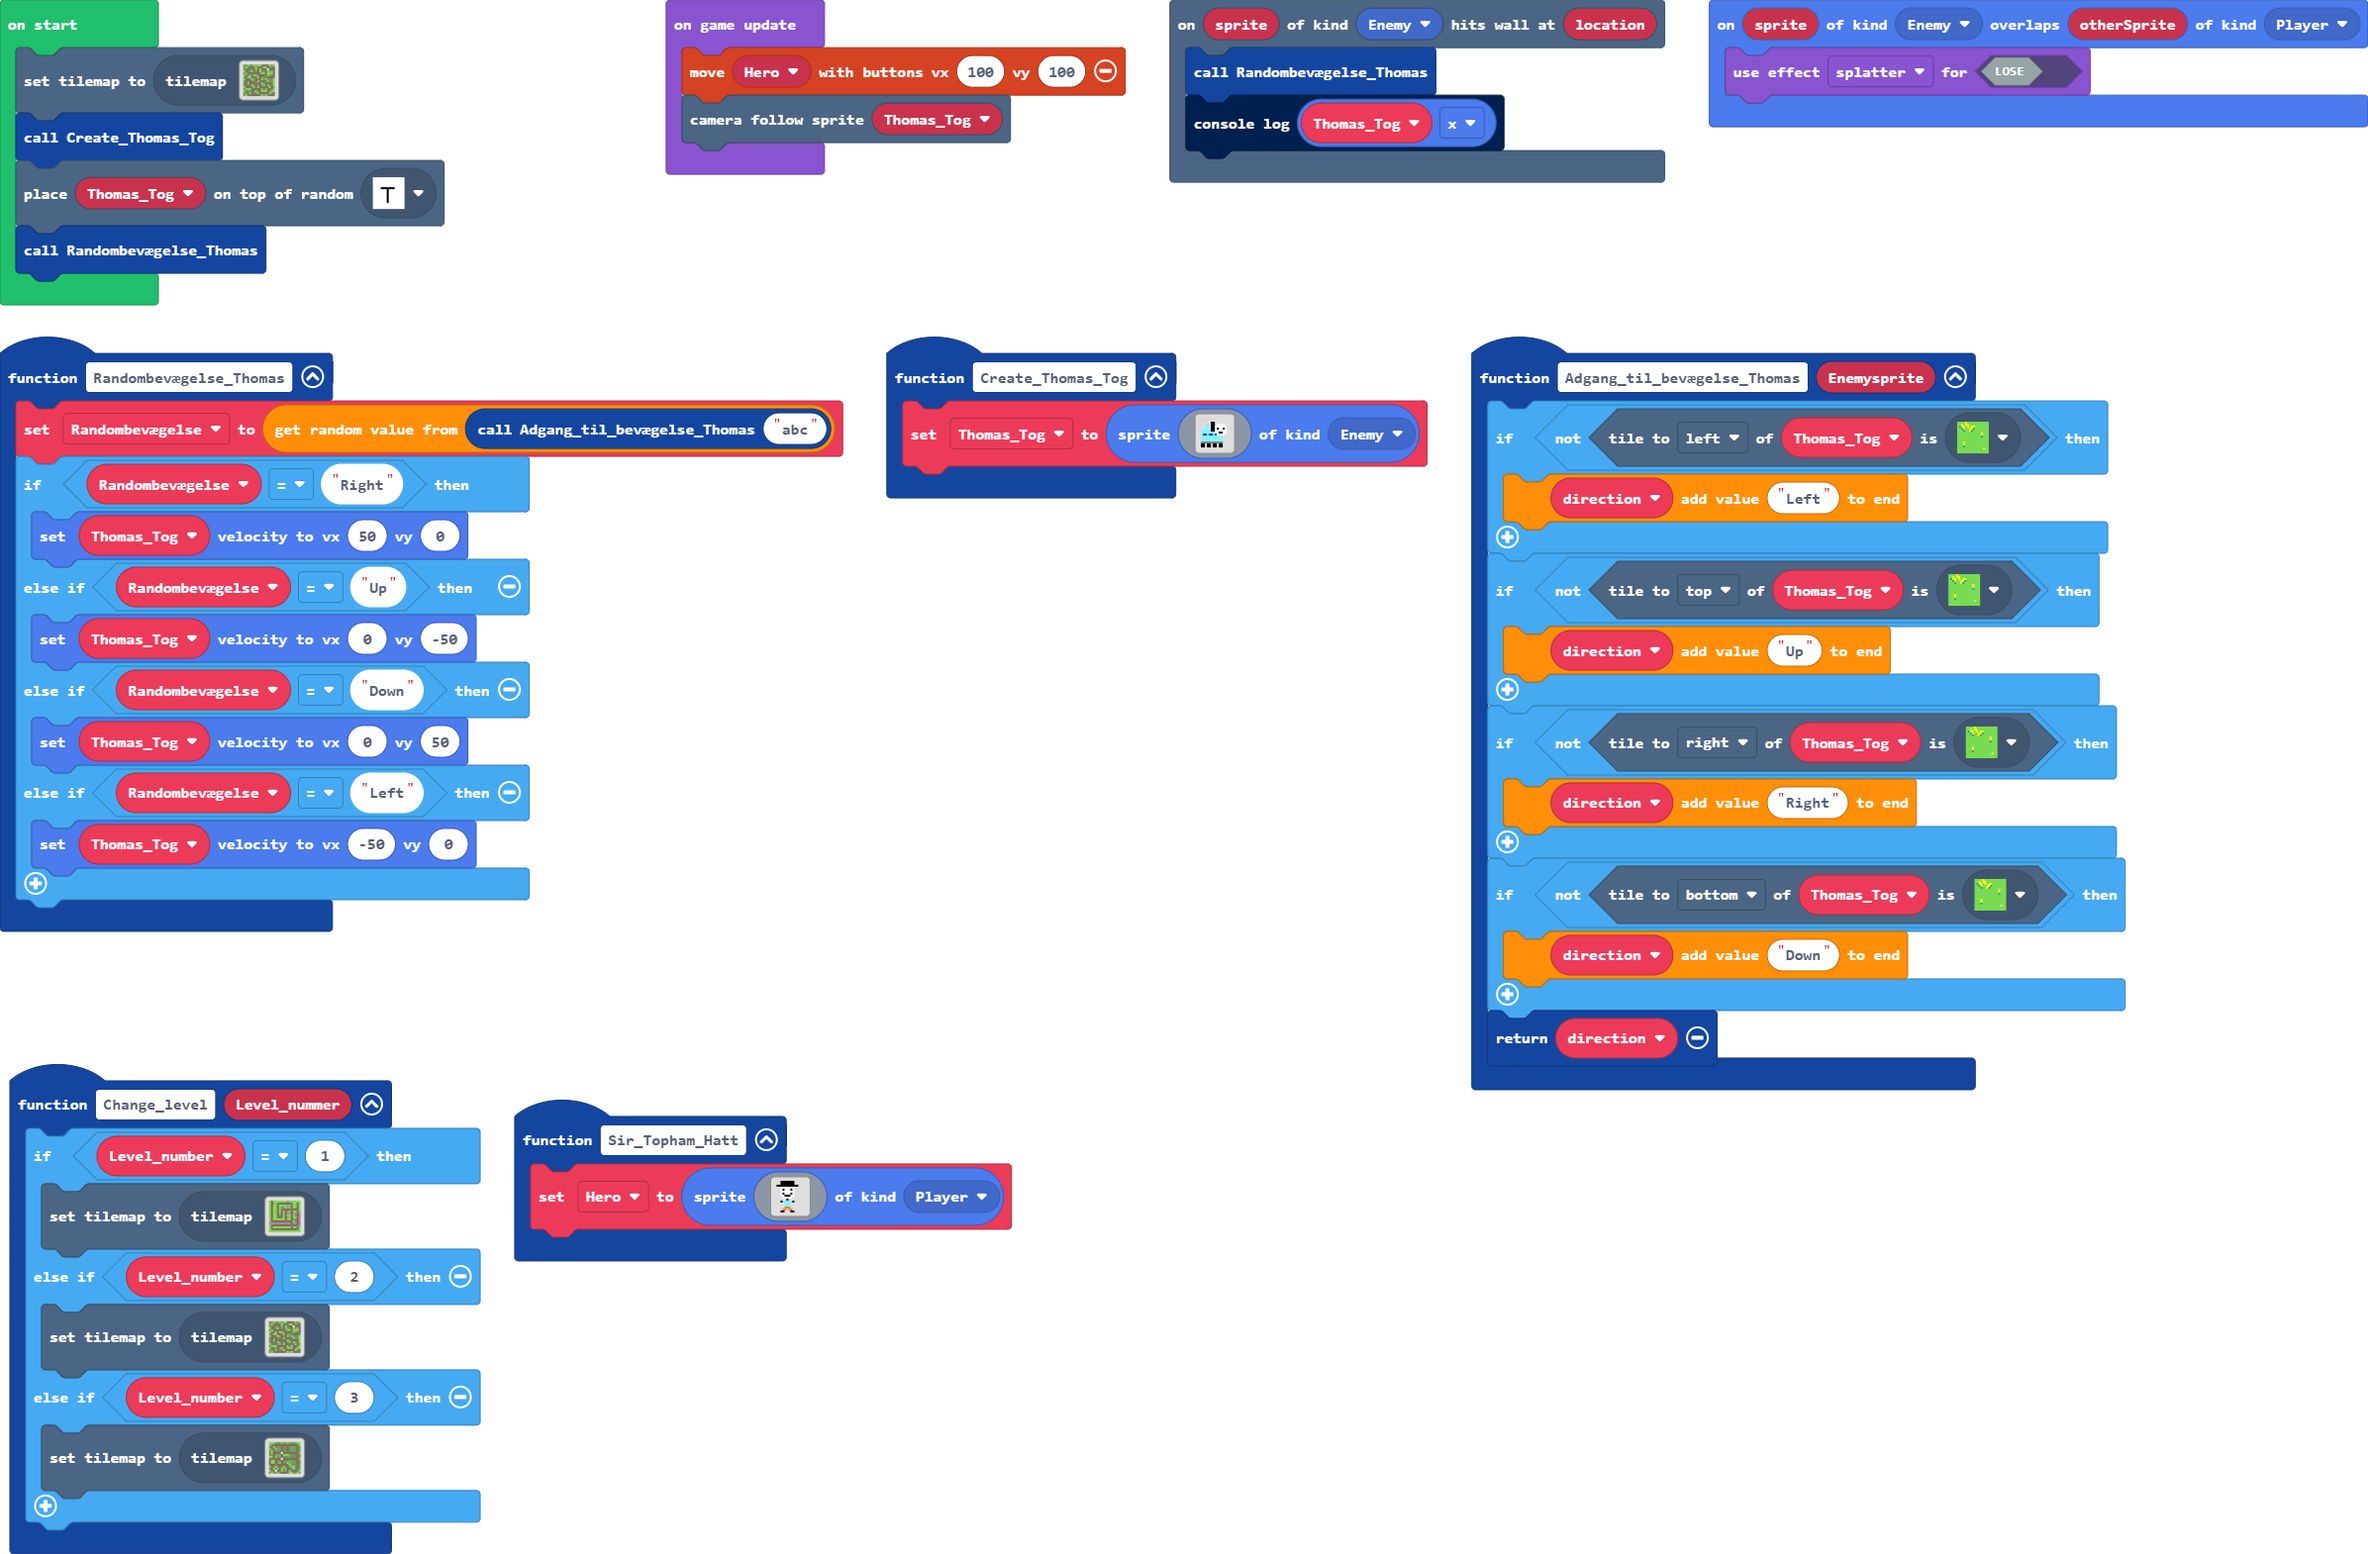
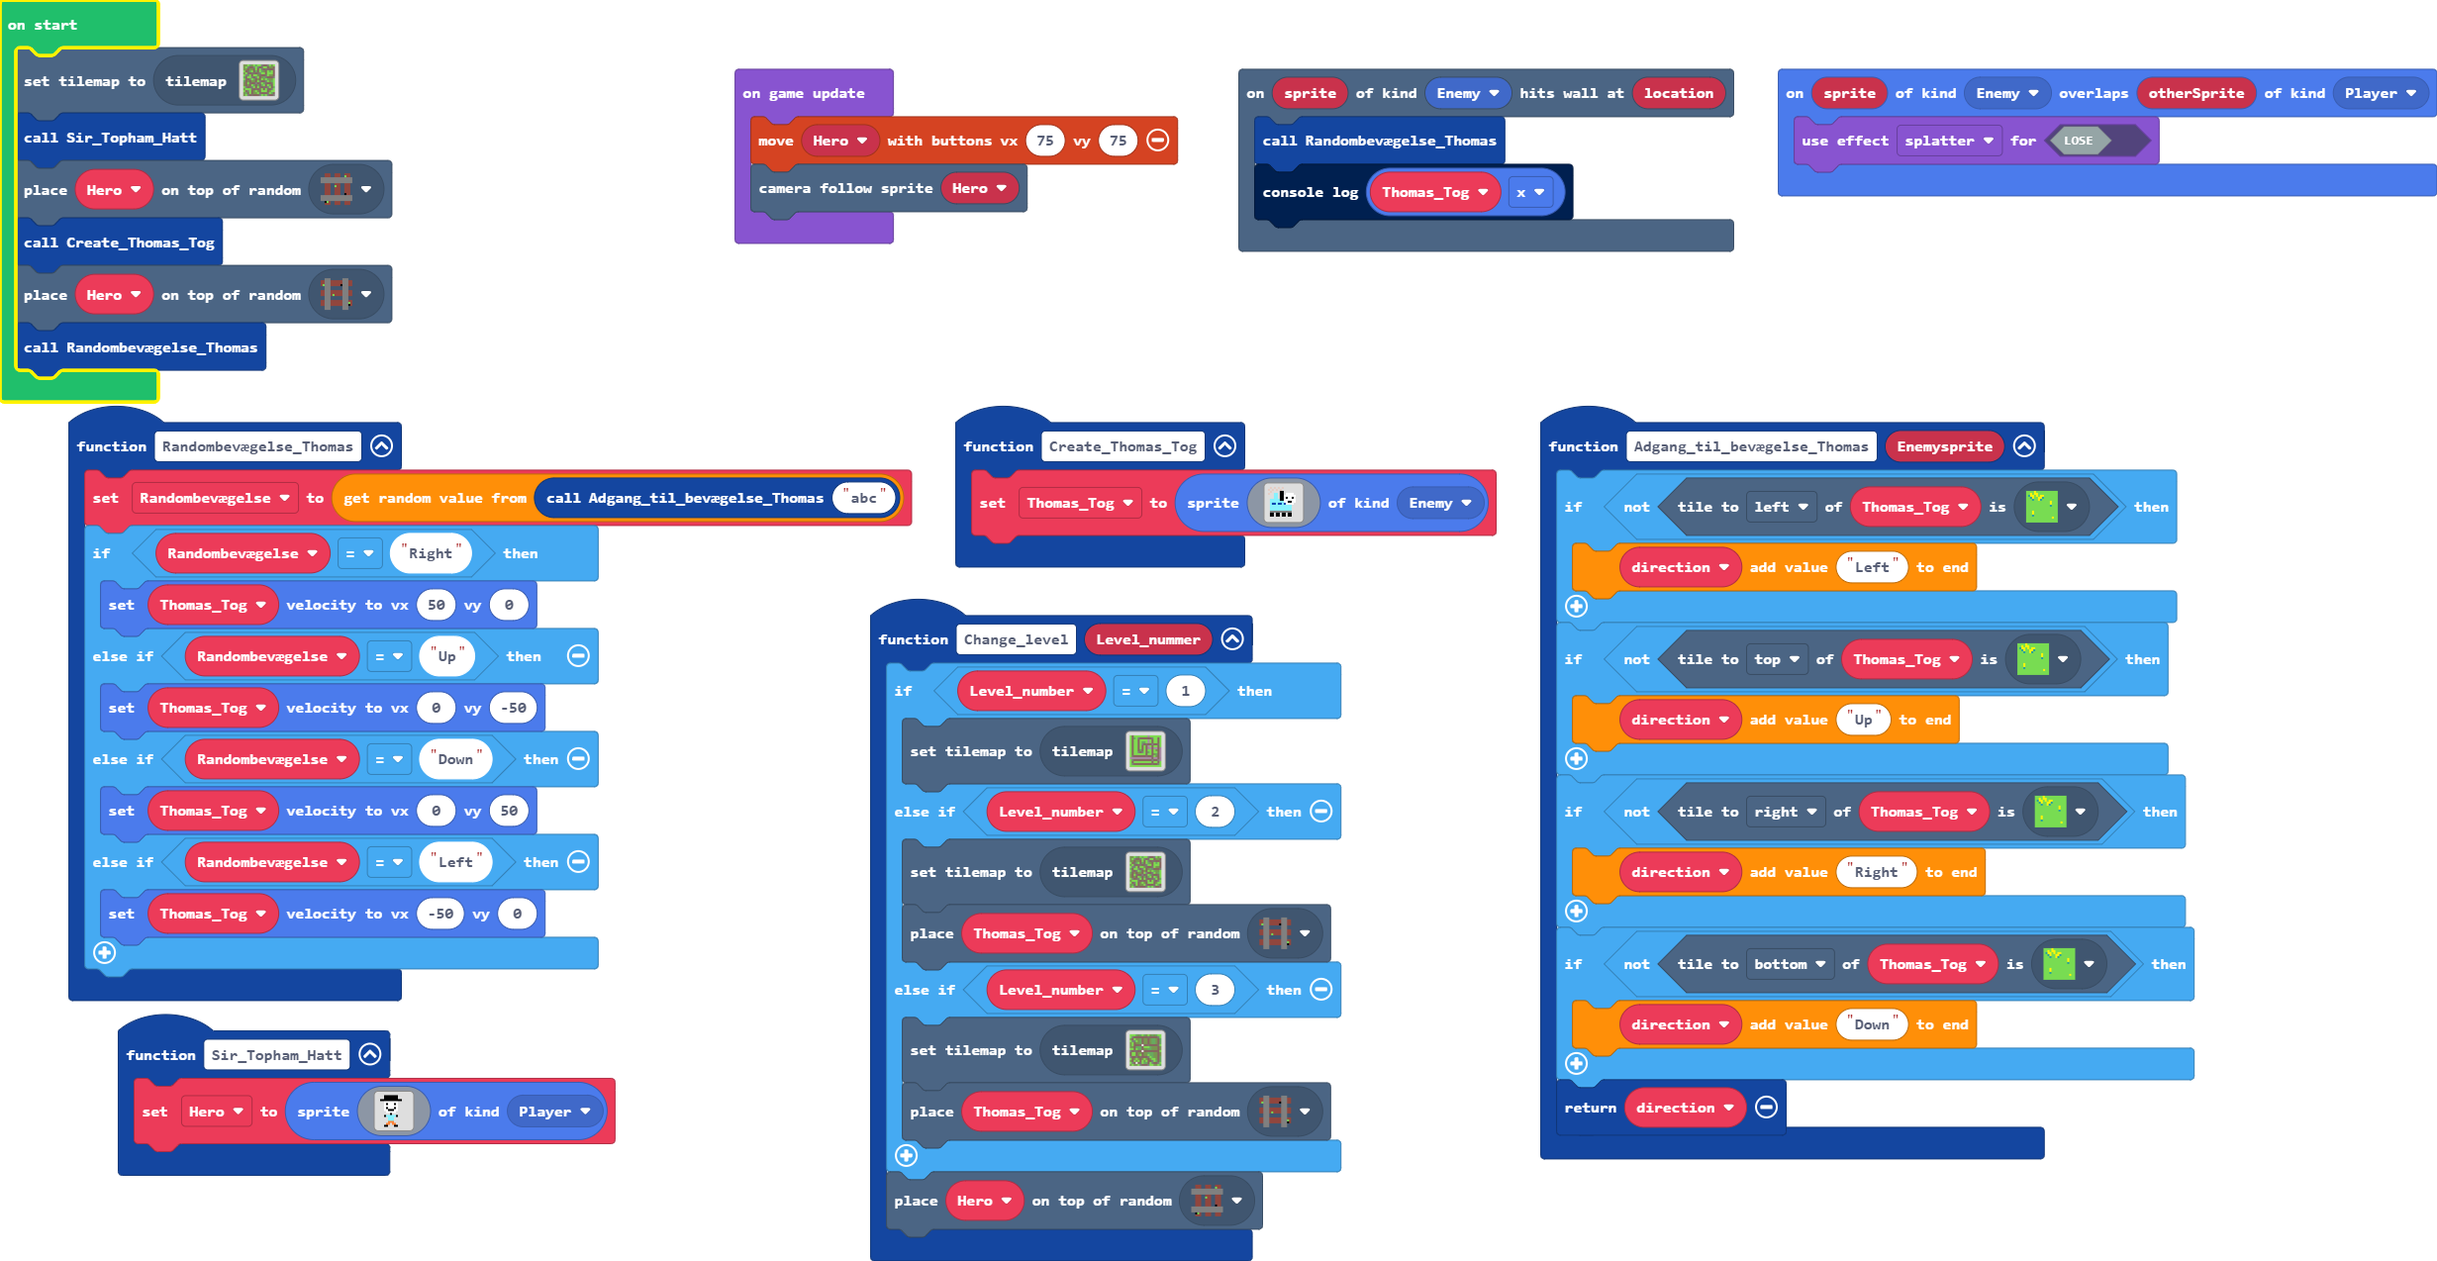
General ændringer

diff --git a/tilemap.g.ts b/tilemap.g.ts
@@ -268,24 +268,24 @@ namespace myTiles {
 2 2 2 2 2 2 2 2 2 2 2 2 2 2 2 2 
 `, [myTiles.transparency16,myTiles.tile1,myTiles.tile2,myTiles.tile3,myTiles.tile4,myTiles.tile5,myTiles.tile6,myTiles.tile7,myTiles.tile8,sprites.castle.tileGrass1,myTiles.tile9,myTiles.tile11,myTiles.tile13,sprites.vehicle.roadHorizontal,sprites.vehicle.roadVertical,sprites.vehicle.roadTurn3,sprites.vehicle.roadTurn2,sprites.vehicle.roadIntersection4,myTiles.tile14,myTiles.tile15], TileScale.Sixteen);
             case "Level 2 Tilemap":
[1 lines of base64/hex data omitted]
-2 2 2 2 2 2 2 2 2 . . . . . . . 
-2 2 . . . . 2 . . . 2 2 . . . . 
[1 lines of base64/hex data omitted]
+2 2 2 2 2 2 2 2 2 . . . . 2 2 2 
+2 2 . . . . 2 . . . 2 2 . 2 2 . 
 2 2 . 2 2 . 2 . 2 . . . . . . . 
-2 . . 2 2 . 2 . 2 2 2 . . . . . 
-2 2 . . . . . . . 2 2 . . . . . 
-2 . . . . . . . . . . . . . . . 
-2 . . . . . . . . . . . . . . . 
-2 . . . . . . . . . . . . . . . 
-2 . . . . . . . . . . . . . . . 
-2 . . . . . . . . . . . . . . . 
-2 . . . . . . . . . . . . . . . 
-2 . . . . . . . . . . . . . . . 
-2 . . . . . . . . . . . . . . . 
-2 . . . . . . . . . . . . . . . 
-2 . . . . . . . . . . . . . . . 
-2 . . . . . . . . . . . . . . . 
-`, [myTiles.transparency16,myTiles.tile1,myTiles.tile2,myTiles.tile3,myTiles.tile4,myTiles.tile5,myTiles.tile6,myTiles.tile8,myTiles.tile9,myTiles.tile10,myTiles.tile11,myTiles.tile12,myTiles.tile13,myTiles.tile14,myTiles.tile15,sprites.castle.tileGrass1,myTiles.tile17], TileScale.Sixteen);
+2 . . 2 2 . 2 . 2 2 2 . 2 2 2 . 
+2 2 . . . . . . . 2 2 . 2 2 2 . 
+2 . . 2 . 2 2 2 . . . . 2 2 2 . 
+2 . 2 2 . . . 2 . 2 2 . . . . . 
+2 . . . 2 2 . 2 . 2 2 2 2 2 2 2 
+2 . 2 . 2 2 . 2 . . . . 2 2 2 2 
+2 . 2 . . . . . . 2 2 . . . . 2 
+2 . 2 . 2 2 . 2 . 2 2 . 2 2 . 2 
+2 . . . . 2 . 2 . . . . . 2 . 2 
+2 2 2 2 . . . . . 2 . 2 . . . 2 
+2 . . 2 . 2 2 2 . 2 2 2 . 2 2 2 
+2 2 . 2 . 2 2 2 . . . . . 2 2 . 
+2 2 . . . . . . . 2 2 2 . . . . 
+`, [myTiles.transparency16,myTiles.tile1,myTiles.tile2,myTiles.tile3,myTiles.tile4,myTiles.tile5,myTiles.tile6,myTiles.tile8,myTiles.tile9,myTiles.tile10,myTiles.tile11,myTiles.tile12,myTiles.tile13,myTiles.tile14,myTiles.tile15,sprites.castle.tileGrass1,myTiles.tile7], TileScale.Sixteen);
         }
         return null;
     })

diff --git a/main.ts b/main.ts
@@ -16,9 +16,12 @@ function Change_level (Level_nummer: string) {
         tiles.setCurrentTilemap(tilemap`level1`)
     } else if (Level_number == 2) {
         tiles.setCurrentTilemap(tilemap`Level 2 Tilemap`)
+        tiles.placeOnRandomTile(Thomas_Tog, assets.tile`Togspor lodret`)
     } else if (Level_number == 3) {
         tiles.setCurrentTilemap(tilemap`level0`)
+        tiles.placeOnRandomTile(Thomas_Tog, assets.tile`Togspor lodret`)
     }
+    tiles.placeOnRandomTile(Hero, assets.tile`Togspor vandret`)
 }
 function Adgang_til_bevægelse_Thomas (Enemysprite: string) {
     let direction: string[] = []
@@ -49,14 +52,16 @@ function Sir_Topham_Hatt () {
 function Create_Thomas_Tog () {
     Thomas_Tog = sprites.create(assets.image`Thomas`, SpriteKind.Enemy)
 }
-let Hero: Sprite = null
-let Randombevægelse = ""
 let Thomas_Tog: Sprite = null
+let Randombevægelse = ""
+let Hero: Sprite = null
 tiles.setCurrentTilemap(tilemap`Level 2 Tilemap`)
+Sir_Topham_Hatt()
+tiles.placeOnRandomTile(Hero, assets.tile`Togspor vandret`)
 Create_Thomas_Tog()
-tiles.placeOnRandomTile(Thomas_Tog, assets.tile`myTile`)
+tiles.placeOnRandomTile(Hero, assets.tile`Togspor lodret`)
 Randombevægelse_Thomas()
 game.onUpdate(function () {
-    controller.moveSprite(Hero, 100, 100)
-    scene.cameraFollowSprite(Thomas_Tog)
+    controller.moveSprite(Hero, 75, 75)
+    scene.cameraFollowSprite(Hero)
 })
